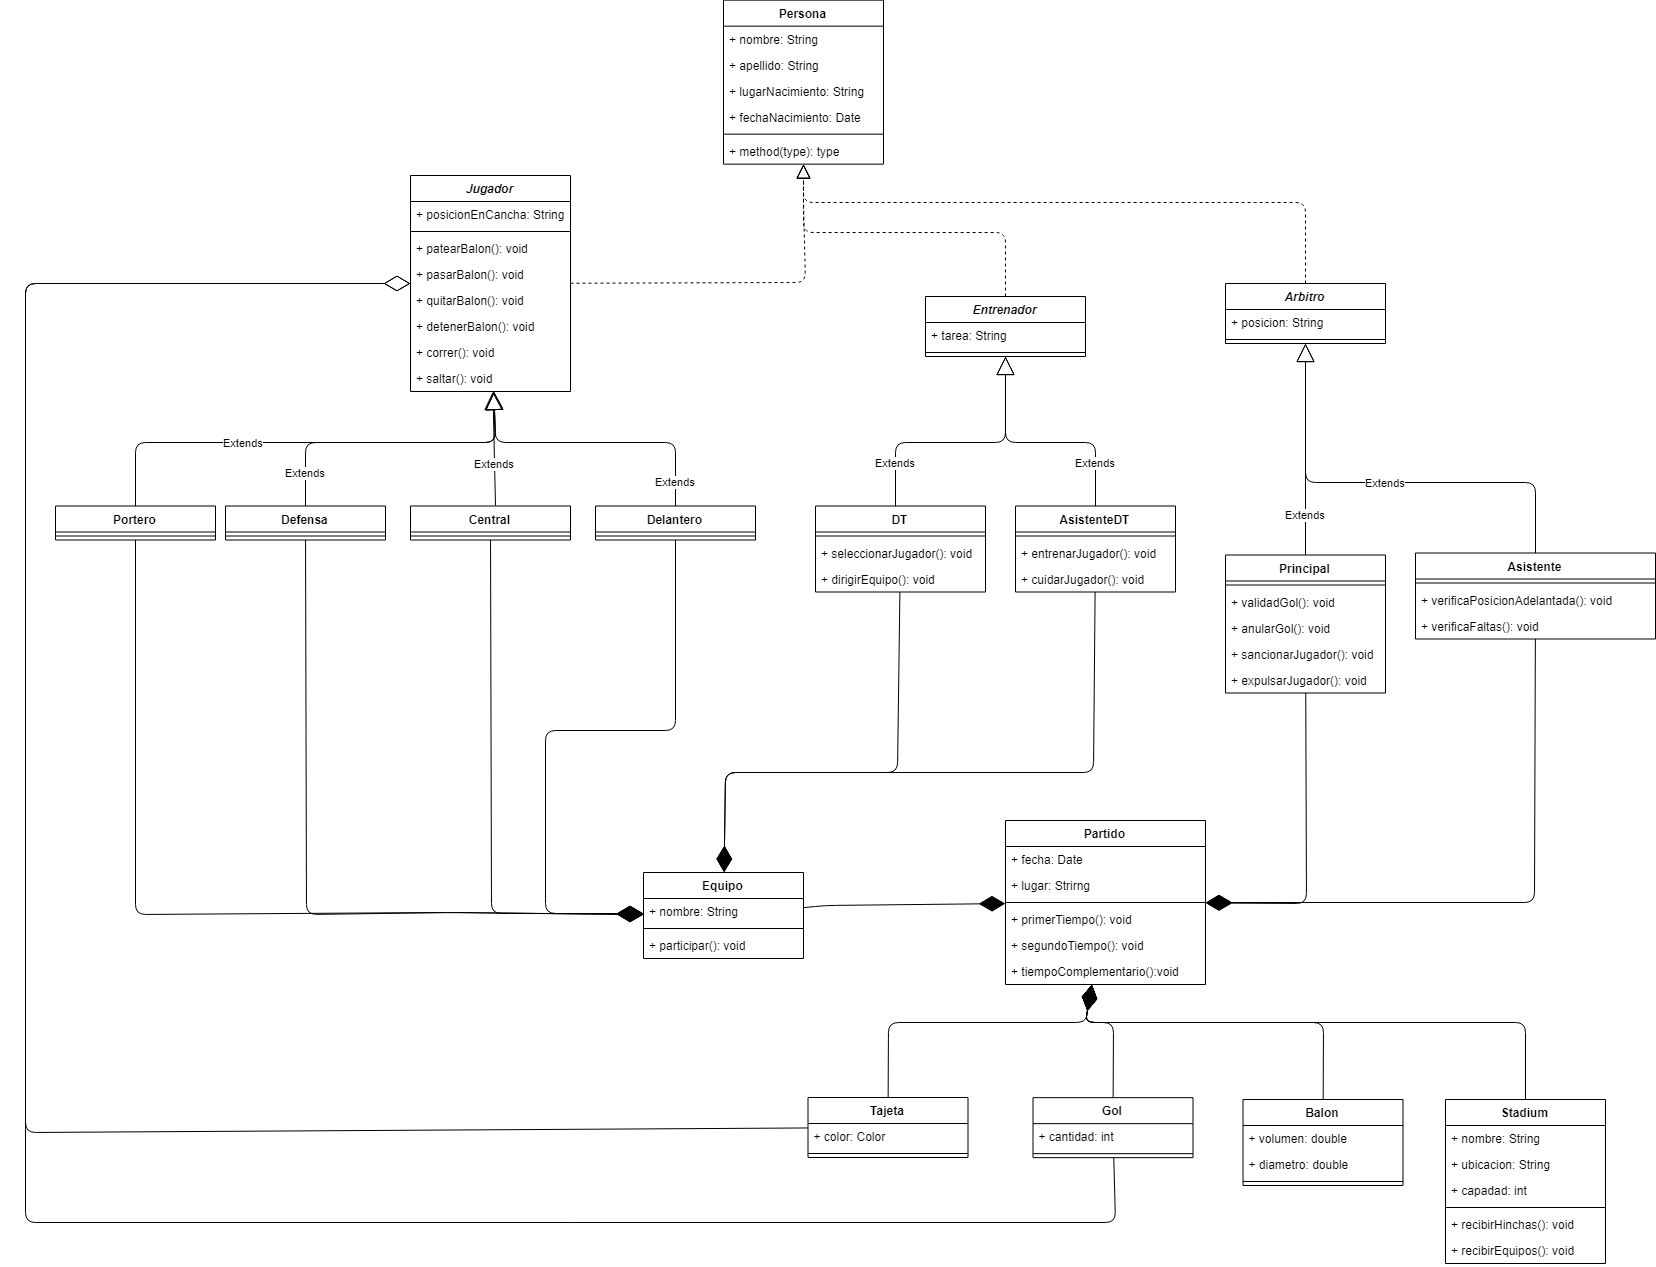
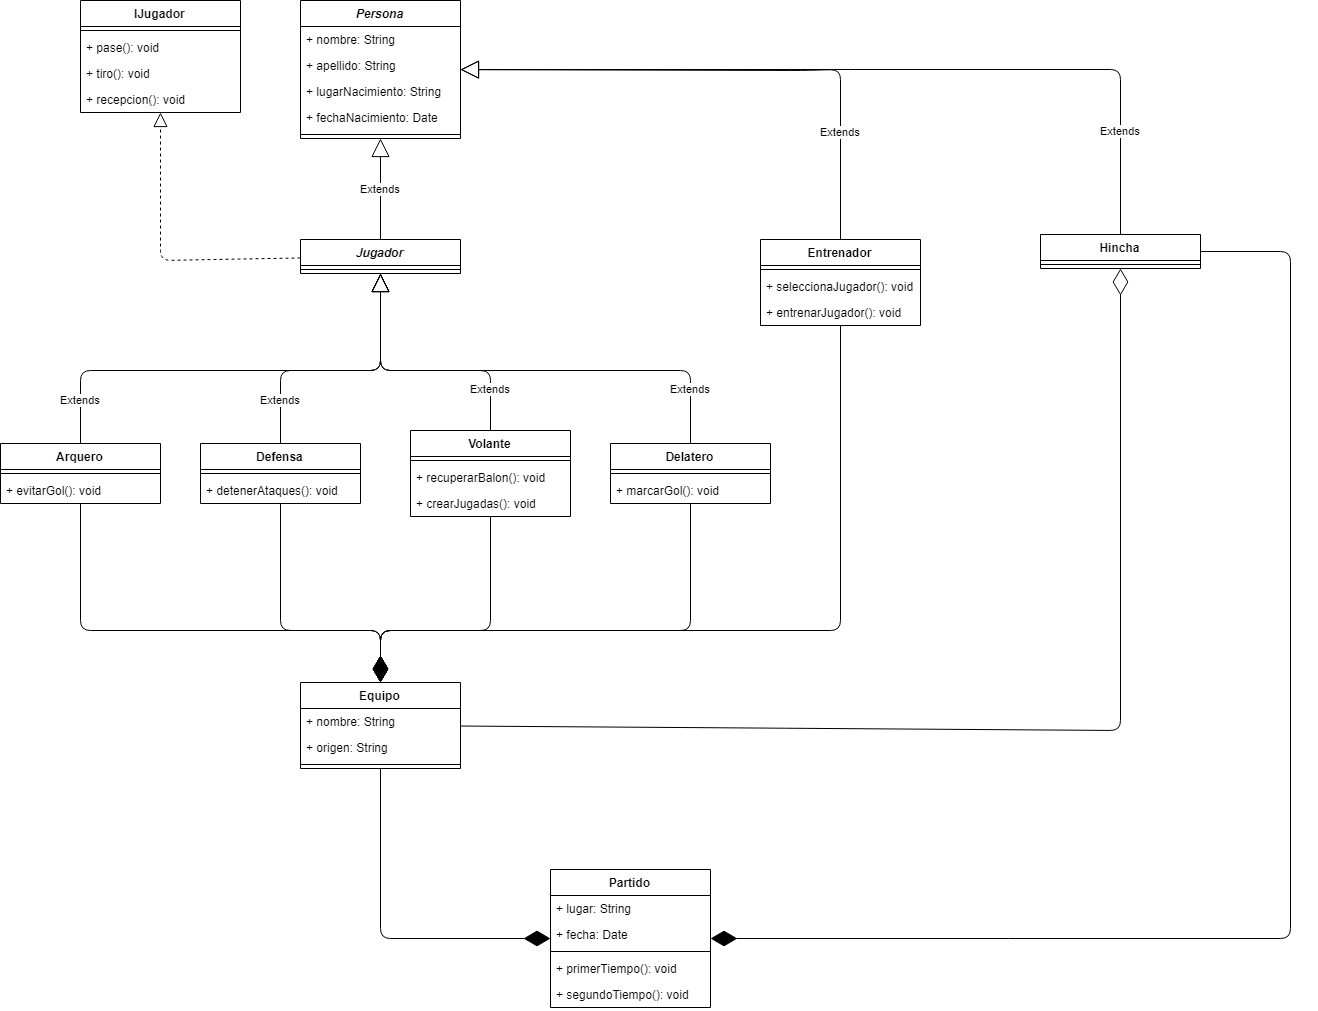
Correccion de UML y Creacion de las Clases Persona,Jugador

diff --git a/src/main/java/JosueRodriguez/SoccerMatch/Jugador.java b/src/main/java/JosueRodriguez/SoccerMatch/Jugador.java
@@ -1,0 +1,29 @@
+package main.java.JosueRodriguez.SoccerMatch;
+
+public abstract class Jugador extends Persona implements IJugador{
+
+	public Jugador(String nombre, String apellido, String lugarNacimiento, int edad) {
+		super(nombre, apellido, lugarNacimiento, edad);
+		// TODO Auto-generated constructor stub
+	}
+
+	@Override
+	public void pase() {
+		System.out.println("Jugardor hace un pase!!");
+		
+	}
+
+	@Override
+	public void tiro() {
+		System.out.println("Jugardor hace un tiro!!");
+		
+	}
+
+	@Override
+	public void recepcion() {
+		System.out.println("Jugardor recibe el balon!!");
+		
+	}
+	
+
+}

diff --git a/src/main/java/JosueRodriguez/SoccerMatch/Persona.java b/src/main/java/JosueRodriguez/SoccerMatch/Persona.java
@@ -1,0 +1,32 @@
+package main.java.JosueRodriguez.SoccerMatch;
+
+public abstract class Persona {
+	String nombre;
+	String apellido;
+	String lugarNacimiento;
+	int edad;
+
+	public Persona(String nombre, String apellido, String lugarNacimiento, int edad) {
+		this.nombre = nombre;
+		this.apellido = apellido;
+		this.lugarNacimiento = lugarNacimiento;
+		this.edad = edad;
+	}
+
+	public String getNombre() {
+		return nombre;
+	}
+
+	public String getApellido() {
+		return apellido;
+	}
+
+	public String getLugarNacimiento() {
+		return lugarNacimiento;
+	}
+
+	public int getEdad() {
+		return edad;
+	}
+
+}

diff --git a/src/main/java/JosueRodriguez/SoccerMatch/Arquero.java b/src/main/java/JosueRodriguez/SoccerMatch/Arquero.java
@@ -1,0 +1,12 @@
+package main.java.JosueRodriguez.SoccerMatch;
+
+public class Arquero extends Jugador{
+	final String POSICION = "arquero";
+	public Arquero(String nombre, String apellido, String lugarNacimiento, int edad) {
+		super(nombre, apellido, lugarNacimiento, edad);
+		// TODO Auto-generated constructor stub
+	}
+	public void evitarGol() {
+		System.out.println("El "+POSICION+" evito el Gol!!");
+	}
+}

diff --git a/src/main/java/JosueRodriguez/SoccerMatch/TestMain.java b/src/main/java/JosueRodriguez/SoccerMatch/TestMain.java
@@ -1,0 +1,11 @@
+package main.java.JosueRodriguez.SoccerMatch;
+
+public class TestMain {
+	
+	public static void main(String []args) {
+		Jugador juan = new Arquero("Juan", "Mancilla", "Cochabamba", 33);
+		juan.evitarGol();
+		
+	}
+	
+}

diff --git a/src/main/java/JosueRodriguez/SoccerMatch/IJugador.java b/src/main/java/JosueRodriguez/SoccerMatch/IJugador.java
@@ -1,0 +1,8 @@
+package main.java.JosueRodriguez.SoccerMatch;
+
+public interface IJugador {
+	public void pase();
+	public void tiro();
+	public void recepcion();
+	public void evitarGol();
+}
